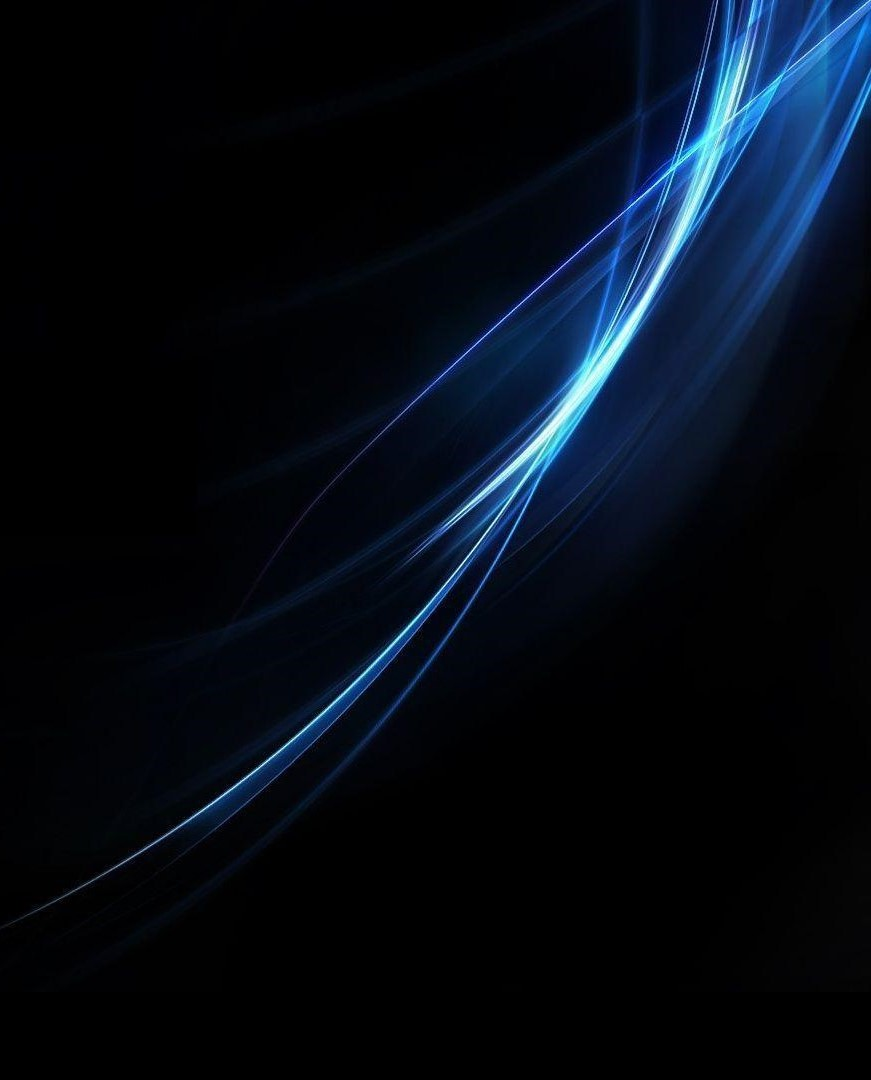
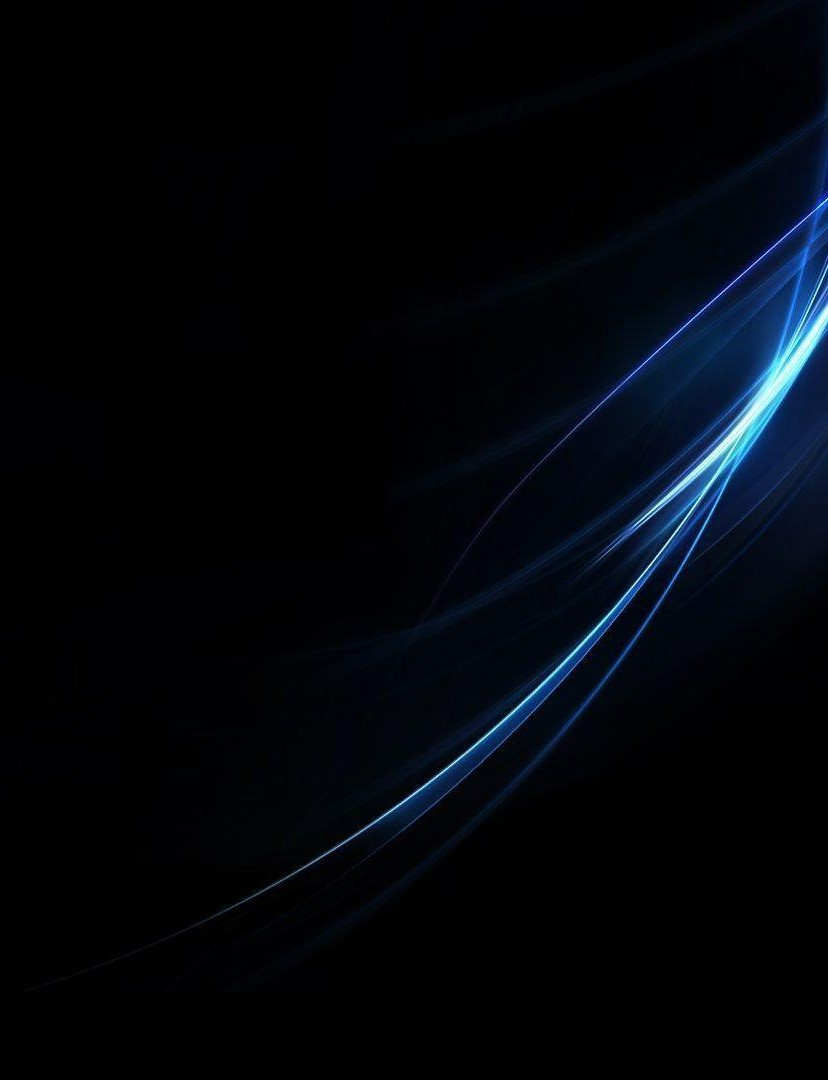
mobile responsiveness

diff --git a/styles.css b/styles.css
@@ -297,7 +297,7 @@ section#contact {
 }
 
 .translateY:hover {
-  transform: translateY(5px);
+  transform: translateY(3px);
 }
 
 .contacttranslateY:hover {
@@ -343,7 +343,7 @@ img#pfp {
   footer {
     height: fit-content;
     width: 100vw;
-    margin: auto auto 5px auto;
+    margin: auto auto 0 auto;
     background-color: rgb(0, 0, 0);
     text-align: center;
     font-family: Poppins, Verdana, Geneva, Tahoma, sans-serif;
@@ -490,14 +490,15 @@ img#pfp {
   
   /* Media Query for Mobile Devices */
 @media (max-width: 800px) {
-    nav {
+    nav, #navlist {
         position: static; 
         width: 100%;
         justify-content: center;
+        align-items: center;
     }
 
     #navabout, #navwork, #navcontact {
-        margin: 2vh 5vw;
+        margin: 2vh 3vw;
     }
 
     #articlecontainer {
@@ -510,7 +511,12 @@ img#pfp {
       row-gap: 2vh;
       justify-content: center;
   }
-  #welcome-section {
+  section#welcome-section {
+    background-color: black;
+    -webkit-background-image: url("Images/mobile.jpg");
     background-image: url("Images/mobile.jpg");
+    background-repeat: no-repeat;
+    background-size: cover;
   }
+
 }

diff --git a/index.html b/index.html
@@ -12,7 +12,7 @@
 <body style="background-color: black;">
   <header>
     <nav id="navbar">
-      <ul>
+      <ul id="navlist">
         <li id="navabout" class="navitem hover-underline-animation translateY hideme">
           <a href="#welcome-section">About</a>
         </li>
@@ -29,7 +29,7 @@
     <section id="welcome-section">
         <div>
         <img id="pfp" width="120px" height="120px" src="Images/pfp.png" alt="Profile Picture" draggable="false">
-        <h1 id="intro">
+
         </div>
         <h1 id="intro">
             <span id="mainintro">Hi, I am <span id="synic" class="hoveranimation">&commat;Synic</span></span><br>
